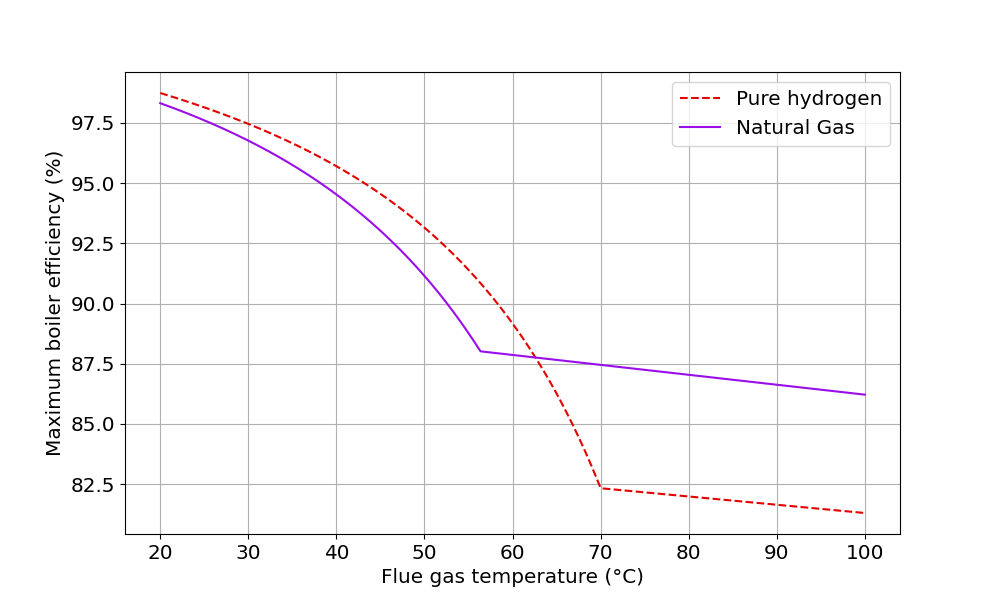
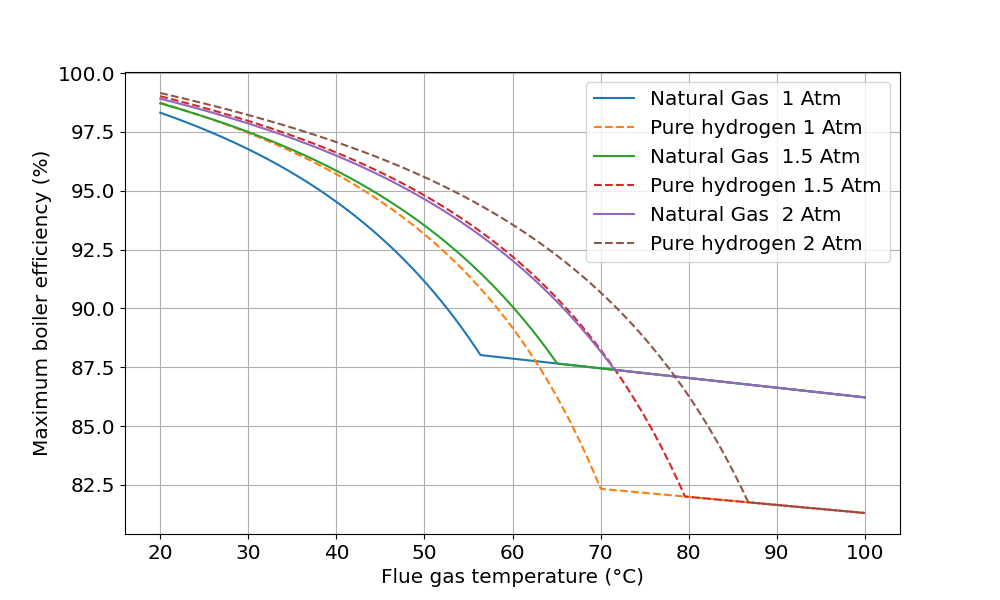
pressured boilers and Cp for H2

diff --git a/peng.py b/peng.py
@@ -174,6 +174,14 @@ def μ_ϱ_gradient():
     return μ_1, ϱ_1, gradient
 
 @memoize   
+def Cp_H2(T):
+    # data from https://www.engineeringtoolbox.com/hydrogen-d_976.html downloaded 29 March 2024
+    temperatures = [175, 200, 225, 250, 275, 300, 325, 350, 375, 400]  # in Kelvin
+    specific_heats = [13.12, 13.53, 13.83, 14.05, 14.20, 14.31, 14.38, 14.43, 14.46, 14.48]  # in kJ/(kg·K)
+
+    return np.interp(T, temperatures, specific_heats) # in kJ/(kg·K)
+    
+@memoize   
 def viscosity_H2(T, P):
     """Higher accuracy viscosity just for hydrogen because of its importance to this 
     project.
@@ -1092,13 +1100,13 @@ def print_wobbe(plot_gases, g, T15C):
     print("'nice' values range from -50% to +50% from the centre of the valid Wobbe range.")
 
 @memoize  
-def get_vapour_moles(g, t, oxidiser):
+def get_vapour_moles(g, t, p, oxidiser):
     """Calculate the amount of H2O(g) compared to H2O(l) at
     a particular temperature - in the flue gas
     """
     vp = st.sonntag_vapor_pressure(t) # in Pascals
-    # Convert to fraction of an atmosphere
-    vp_a = vp * 1e-5 / Atm # Atm = 1.0325 bar 
+    # Convert to fraction of an atmosphere, or current working pressure
+    vp_a = vp * 1e-5 / p # pressure in bar, 1 Atm = 1.0325 bar 
     
     
     # Work in whole moles, not  mole fractions
@@ -1121,7 +1129,7 @@ def get_vapour_moles(g, t, oxidiser):
     return vap_mol
 
 @memoize  
-def get_water_moles(g, t, oxidiser):
+def get_water_moles(g, t, p, oxidiser):
     """get number of moles of liquid water condensed for fuel g
     and at temperature t 
     for one mole of fuel gas"""
@@ -1131,19 +1139,19 @@ def get_water_moles(g, t, oxidiser):
     h2o_f = gas_mixtures[flue]['H2O'] # fractional value
     h2o_mol = n * h2o_f        # moles of h2o
     
-    vap_mol = get_vapour_moles(g, t, oxidiser)
+    vap_mol = get_vapour_moles(g, t, p, oxidiser)
     liq_mol = h2o_mol - vap_mol
 
     return liq_mol
     
    
 @memoize
-def latent_lost(g, t, oxidiser):
+def latent_lost(g, t, p, oxidiser):
     # we need the actual number of moles of water, not just the proportion
     # This is the extra heat LOST because it is emitted a vapour, not an extra
     # amount we gain because it condenses.
     # STP at 298K assumes it is all condensed to water
-    lost = get_vapour_moles(g, t, oxidiser)     
+    lost = get_vapour_moles(g, t, p, oxidiser)     
     LH = gas_data['H2O']['LH'] # kJ/mol    
     
     latent_heat =   lost * LH * 1000 # convert to J from kJ
@@ -1277,9 +1285,9 @@ def sensible_flue(g, t, oxidiser):
     return sensible_heat
 
 @memoize    
-def sensible_water(g, t, oxidiser):
+def sensible_water(g, t, p, oxidiser):
     """Sensible heat needed to'heat' liquid water from 298 to exit temp"""
-    water_moles = get_water_moles(g, t, oxidiser) # for one mole fuel
+    water_moles = get_water_moles(g, t, p, oxidiser) # for one mole fuel
     water_cp = gas_data['H2O']['CpL']
     sensible_heat = water_moles *water_cp * (t- 298) 
     return sensible_heat
@@ -1292,10 +1300,10 @@ def sensible_in(g, T, t_fuel, t_air, oxidiser):
     return fuel_in + air_in
     
 @memoize
-def sensible_out(g, T, oxidiser):
+def sensible_out(g, T, p, oxidiser):
     """Sensible heat needed to'heat' flue gas from 298 to exit temp"""
     flue_out = sensible_flue(g, T, oxidiser) # yes, for 1 mole fuel
-    water_out = sensible_water(g, T, oxidiser) # for one mole fuel
+    water_out = sensible_water(g, T, p, oxidiser) # for one mole fuel
     return flue_out + water_out
     
 def d_condense(T, pressure, g, oxidiser):
@@ -1307,7 +1315,7 @@ def d_condense(T, pressure, g, oxidiser):
     return (e1-e2)/2*δ
 
 @memoize
-def condense(T, pressure, g, oxidiser):
+def condense(T, p, g, oxidiser):
     """Return the efficiency (%) of the boiler assuming flue gas is all condensed
     at temperature T (K)
     """
@@ -1321,14 +1329,14 @@ def condense(T, pressure, g, oxidiser):
     _, _, hc_MJ = get_Hc(g, 298) 
     hc = hc_MJ * 1000 * 1000
 
-    heat_out = hc - latent_lost(g, T, oxidiser) - sensible_in(g, T, t_fuel, t_air, oxidiser) - sensible_out(g, T, oxidiser)
+    heat_out = hc - latent_lost(g, T, p, oxidiser) - sensible_in(g, T, t_fuel, t_air, oxidiser) - sensible_out(g, T,p, oxidiser)
     η = 100 * heat_out/hc
     return η
 
-def find_intersection(g1, g2, oxidiser):
+def find_intersection(g1, g2, p, oxidiser):
     """For a condensing boiler at 1 atm, at what temperature are
     the efficiences equal between these two fuels?"""
-    p = Atm
+    #p = Atm
     def objective(T):
         obj = condense(T, p, g1, oxidiser) - condense(T, p, g2, oxidiser)
         #print(f"{T-T273:5.3f} {condense(T, p, g1):8.4f} {condense(T, p, g2):8.4f}")
@@ -1352,7 +1360,7 @@ def find_intersection(g1, g2, oxidiser):
     eff = condense(T, p, g1, oxidiser)
     if obj > 2* eps:
         print("ABORT")
-    print(f"At {T-T273:5.2f} degrees C the fuels '{g1}' and '{g2}' have the same efficiency of {eff:8.5f} %  ({n}) with {oxidiser}")
+    print(f"At {T-T273:5.2f} degrees C the fuels '{g1}' and '{g2}' have the same efficiency of {eff:8.5f} %  ({n}) with {oxidiser} at {p} bar")
  
 def export_η_table(oxidiser):
     """Produce a text file with boiler efficiences"""
@@ -1511,6 +1519,11 @@ def plot_kwargs(g):
     color=colour(g)
 
     return  {'color': color, 'linestyle': linestyle}
+    
+def plot_kwargs_linestyle(g):
+    linestyle=style(g)
+
+    return  {'linestyle': linestyle}
 # ---------- ----------main program starts here---------- ------------- #
 def main():
     global visc_f
@@ -1610,23 +1623,26 @@ def main():
 
    # Plot the condensing curve  - - - - - - - - - - -
     p = Atm
-    t_condense = np.linspace(273.15+20, 273.15+100, 1000)  
     plt.figure(figsize=(10, 6))
-    c_H2 = [condense(T, p, 'H2', 'Air') for T in t_condense]
-    c_NG = [condense(T, p, 'NG', 'Air') for T in t_condense]
-    c_20H = [condense(T, p, 'NG+20%H2', 'Air') for T in t_condense]
-    
-    plt.plot(t_condense-273.15, c_H2, label='Pure hydrogen', **plot_kwargs('H2'))
-    plt.plot(t_condense-273.15, c_NG, label='Natural Gas', **plot_kwargs('NG'))
-   
-    #plt.title(f'Maximum boiler efficiency vs Condensing Temperature at {p} bar')
+    for i in [0, 0.5, 1]:
+        p = Atm + i # bar
+        t_condense = np.linspace(273.15+20, 273.15+100, 1000)  
+        c_H2 = [condense(T, p, 'H2', 'Air') for T in t_condense]
+        c_NG = [condense(T, p, 'NG', 'Air') for T in t_condense]
+        c_20H = [condense(T, p, 'NG+20%H2', 'Air') for T in t_condense]
+        
+        plt.plot(t_condense-273.15, c_NG, label=f'Natural Gas  {i+1} Atm', **plot_kwargs_linestyle('NG'))
+        plt.plot(t_condense-273.15, c_H2, label=f'Pure hydrogen {i+1} Atm', **plot_kwargs_linestyle('H2'))
+       
+        #plt.title(f'Maximum boiler efficiency vs Condensing Temperature at {p} bar')
     plt.xlabel('Flue gas temperature (°C)')
     #plt.ylim([80, 100])
     plt.ylabel('Maximum boiler efficiency (%)')
     plt.legend()
     plt.grid(True)
-
-    plt.savefig("condse_η.png")
+    plt.savefig(f"condse_η.png")
+    
+    p = Atm
     plt.plot(t_condense-273.15, c_20H, label='NG+20%H2', **plot_kwargs('NG+20%H2'))
     plt.legend()
     plt.savefig("condse_η20.png")
@@ -1695,8 +1711,10 @@ def main():
     plt.savefig("condse_dη.png")
     plt.close()
     
-    find_intersection('H2', 'NG', 'Air') # where do the efficiences cross?
-    find_intersection('H2', 'NG+20%H2', 'Air') # where do the efficiences cross?
+    for i in [0, 0.5, 1 ]:
+        p = Atm + i # bar
+        find_intersection('H2', 'NG', p, 'Air') # where do the efficiences cross?
+    find_intersection('H2', 'NG+20%H2', Atm, 'Air') # where do the efficiences cross?
 
    # Plot the compressibility  - - - - - - - - - - -
 
